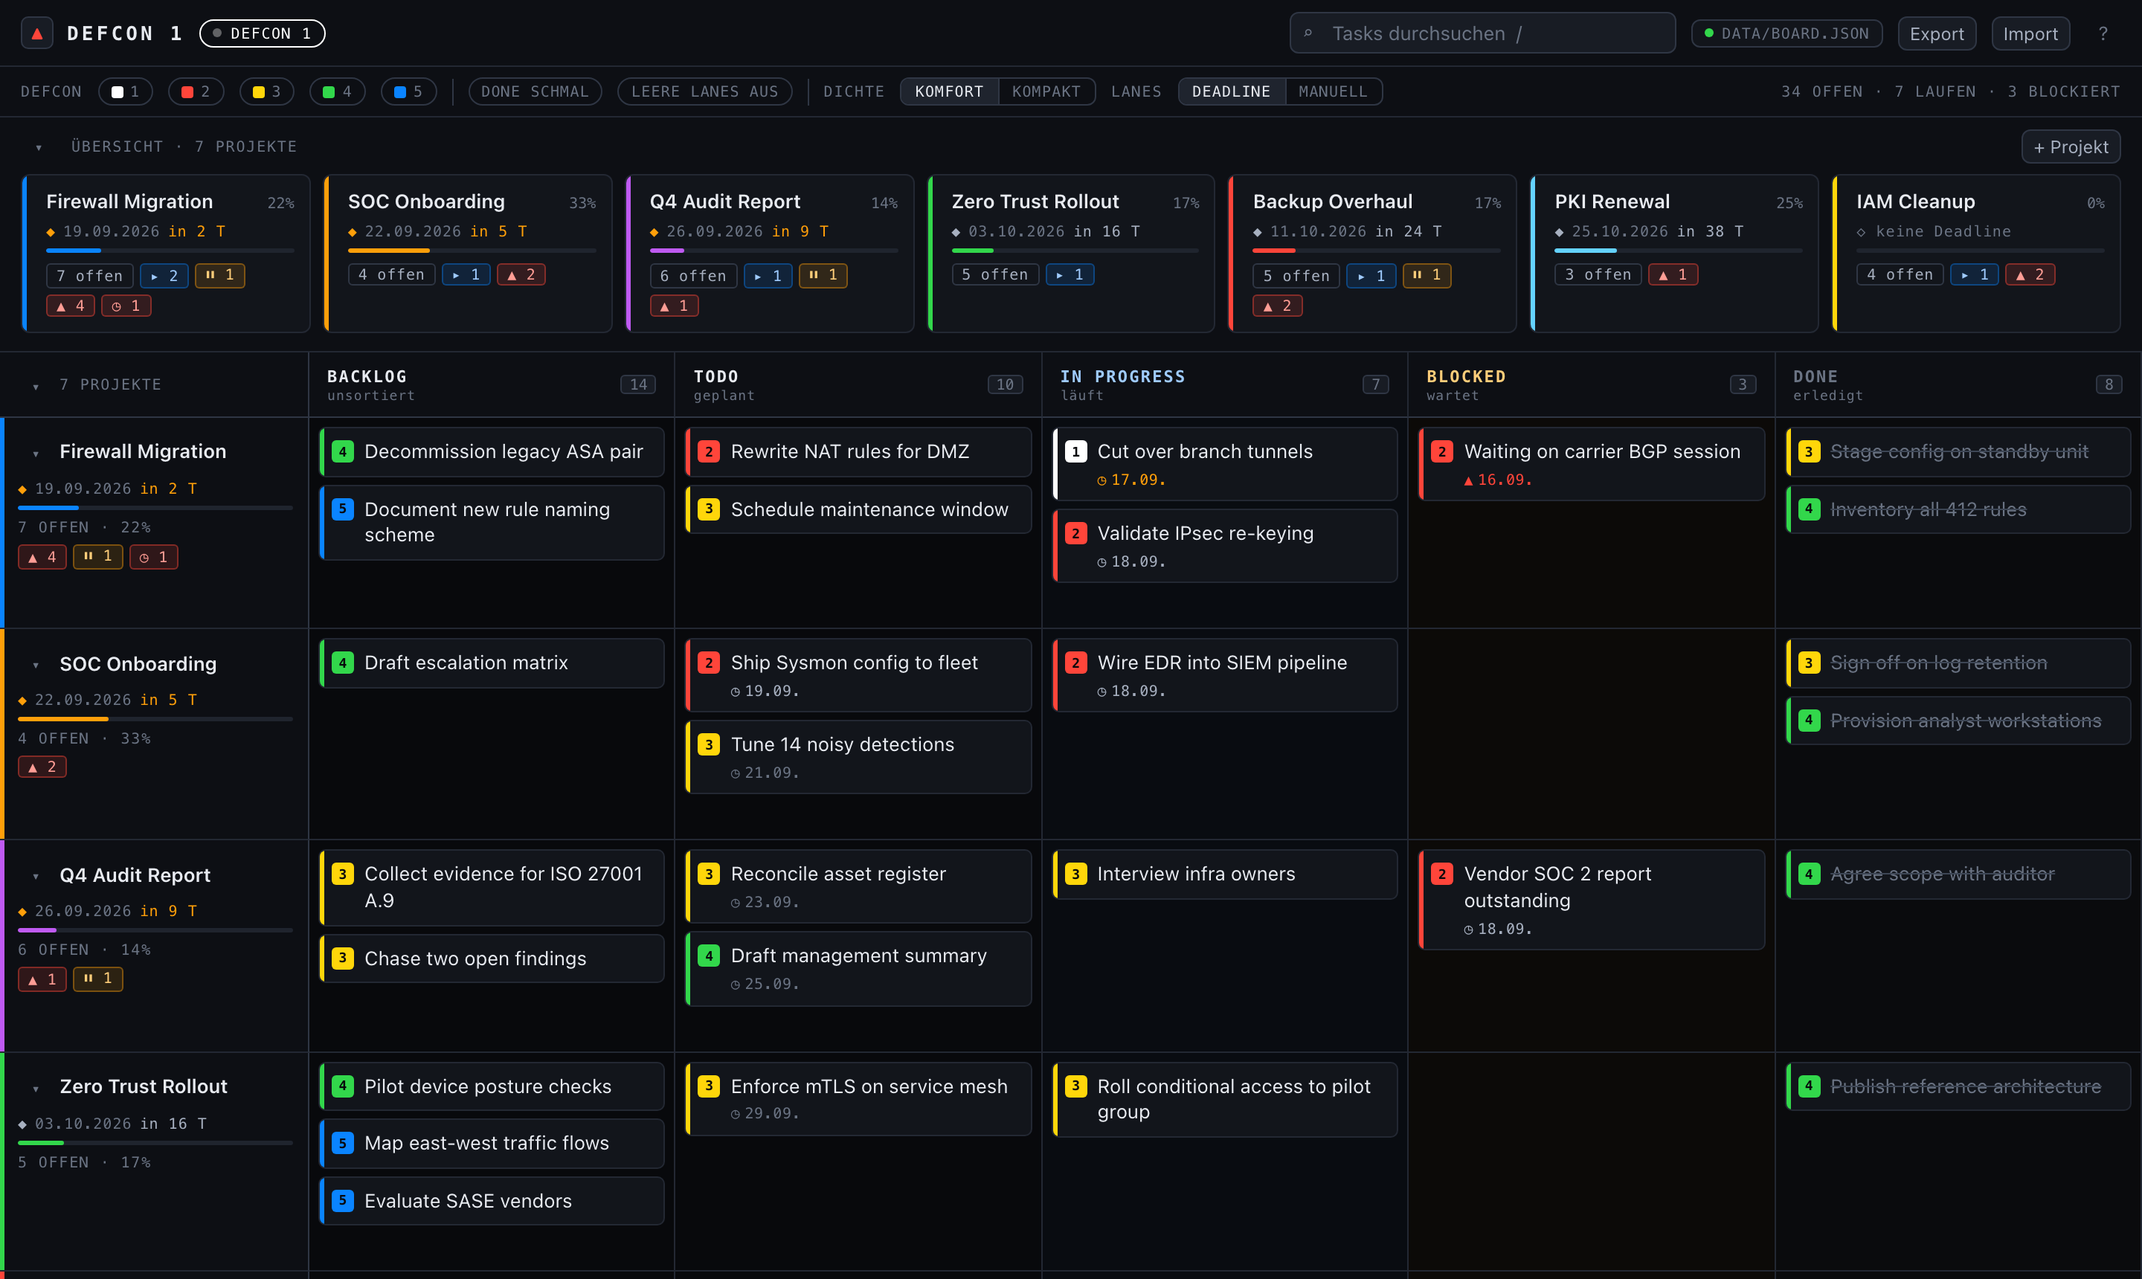
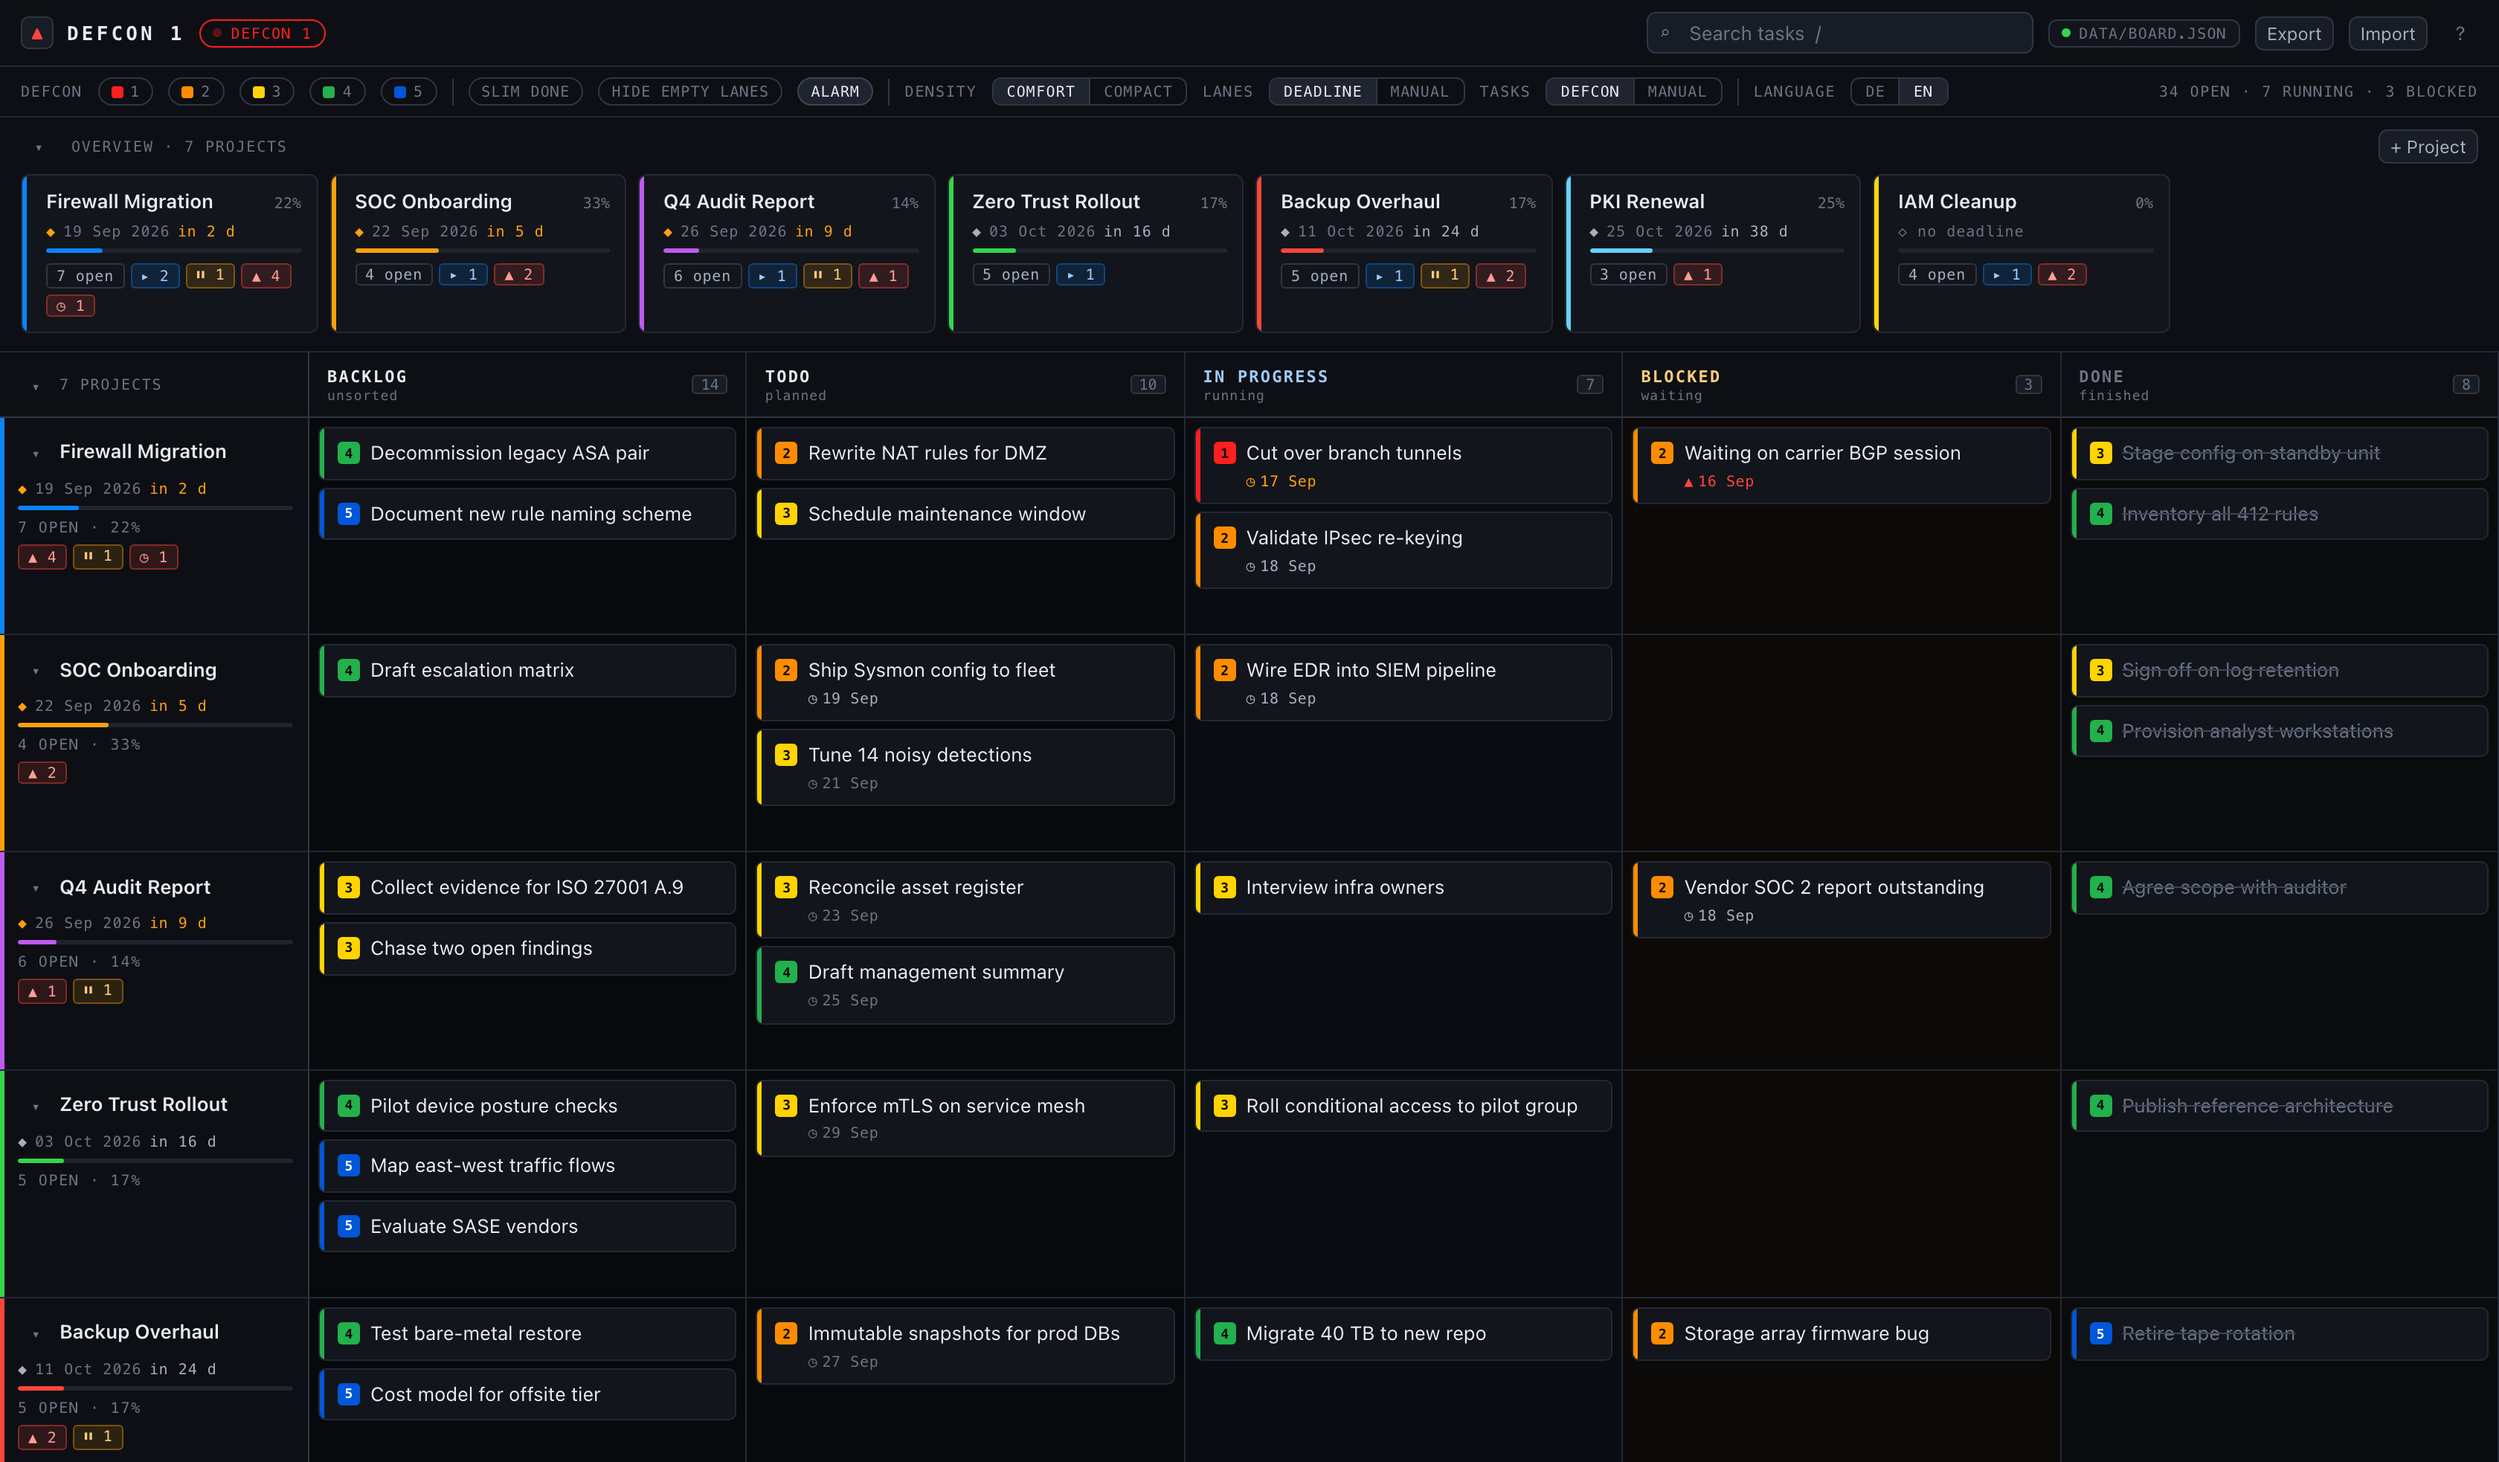
docs: reshoot screenshots with the new defcon palette in english
The screenshots still showed main's old DEFCON colours (1 white, 2 red)
and the German UI. Rebuild both from the worktree-i18n branch with
lang=en, so hero and compact match the current palette (1 red,
2 orange, 3 yellow, 4 green, 5 blue) and read in English.

Shot at 1680px instead of 1440px: the English toolbar labels do not fit
at 1440 and clip mid-word.

Update the DEFCON table to the new colours and the app's own level
wording, replace the German-UI note with the DE/EN language switch, and
mention DEFCON task sorting and the alarm chip. Drop the hard-coded test
count from the badge so it cannot go stale.

diff --git a/README.md b/README.md
@@ -10,11 +10,11 @@ one JSON file on your disk.
 [![React 19](https://img.shields.io/badge/React-19-0a84ff?logo=react&logoColor=white)](https://react.dev)
 [![TypeScript strict](https://img.shields.io/badge/TypeScript-strict-3178c6?logo=typescript&logoColor=white)](https://www.typescriptlang.org)
 [![Vite 7](https://img.shields.io/badge/Vite-7-bf5af2?logo=vite&logoColor=white)](https://vite.dev)
-[![Tests](https://img.shields.io/badge/tests-61%20passing-32d74b)](#development)
+[![Tests](https://img.shields.io/badge/tests-passing-32d74b)](#development)
 ![Server dependencies](https://img.shields.io/badge/server%20deps-0-ff9f0a)
 ![No cloud](https://img.shields.io/badge/cloud-none-ff453a)
 
-<img src="docs/images/hero.png" alt="The DEFCON 1 board: a command deck of project tiles above seven project swimlanes across Backlog, Todo, In Progress, Blocked and Done columns" width="100%">
+<img src="docs/images/hero.png" alt="The DEFCON 1 board: a command deck of seven project tiles with deadline countdowns above project swimlanes running across the Backlog, Todo, In Progress, Blocked and Done columns, cards colour-coded by DEFCON level" width="100%">
 
 </div>
 
@@ -58,7 +58,7 @@ Press <kbd>d</kbd> for compact mode, and narrow the Done column to just its
 count — the working columns get the width instead.
 
 <div align="center">
-<img src="docs/images/compact.png" alt="The same board in compact density with the command deck collapsed and the Done column narrowed to a count, fitting five project lanes on screen" width="100%">
+<img src="docs/images/compact.png" alt="The same board in compact density with the command deck collapsed and the Done column narrowed to a bare count, fitting the same five project lanes into noticeably less vertical space" width="100%">
 </div>
 
 ### Priorities as DEFCON levels
@@ -67,14 +67,22 @@ Because "high / medium / low" never survives contact with ten projects.
 
 | Level | Colour | Code word | Meaning |
 | :---: | --- | --- | --- |
-| **1** | white | `COCKED PISTOL` | drop everything |
-| **2** | red | `FAST PACE` | critical |
-| **3** | yellow | `ROUND HOUSE` | important |
-| **4** | green | `DOUBLE TAKE` | normal |
-| **5** | blue | `FADE OUT` | someday |
+| **1** | 🟥 red | `COCKED PISTOL` | now |
+| **2** | 🟧 orange | `FAST PACE` | critical |
+| **3** | 🟨 yellow | `ROUND HOUSE` | important |
+| **4** | 🟩 green | `DOUBLE TAKE` | normal |
+| **5** | 🟦 blue | `FADE OUT` | someday |
+
+These are the official signal colours of the scale, used verbatim rather than
+toned down to fit the UI — that contrast *is* the feature.
 
 Every card carries a coloured stripe on its left edge. Levels 1 and 2 count as
 **hot** and light up both the lane header and the command deck.
+
+Urgency needs no housekeeping: with task sorting on `DEFCON`, a task that gets
+promoted rises to the top of its cell by itself. Switch to `MANUAL` if you would
+rather order cards by hand. A fresh DEFCON 1 may also make a noise — one click on
+the `ALARM` chip silences it for good on that device.
 
 ### Keyboard-first
 
@@ -165,7 +173,7 @@ DEFCON1_HOST=0.0.0.0 npm start
 | `npm start` | build + serve (the normal way) |
 | `npm run serve` | serve only, no rebuild |
 | `npm run dev` | Vite dev server (`:5173`) + API server, with hot reload |
-| `npm test` | Vitest — 61 tests |
+| `npm test` | Vitest — logic and UI suite |
 | `npm run typecheck` | TypeScript strict check |
 
 ```
@@ -183,6 +191,7 @@ data/board.json     your data
 for drag & drop, Vitest. The server runs on the Node standard library alone —
 zero runtime dependencies.
 
-> [!NOTE]
-> The UI labels are currently German (the screenshots above are the real app);
-> the code, data model, and quick-add syntax are English.
+**Languages:** the interface ships in English and German. On first load it
+follows your browser; the `LANGUAGE` switch in the toolbar overrides that per
+device. The five column names and the DEFCON code words stay untranslated on
+purpose — they are the shared vocabulary of the board.
